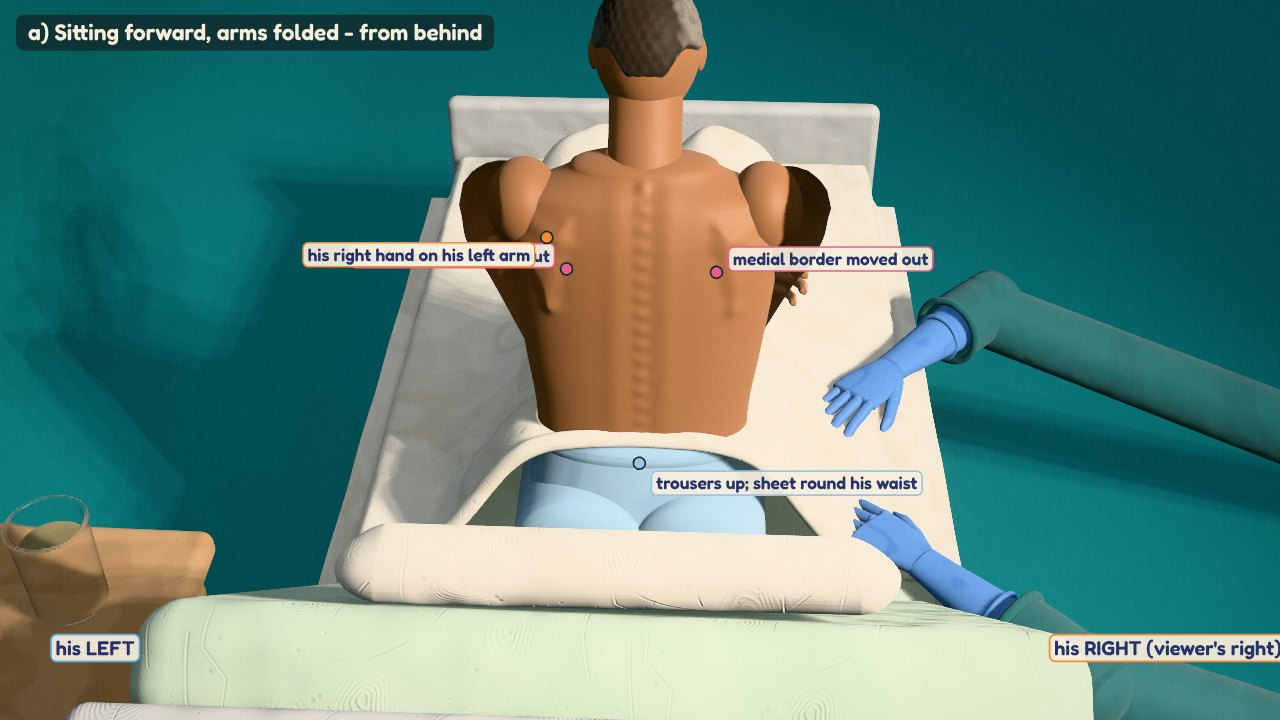
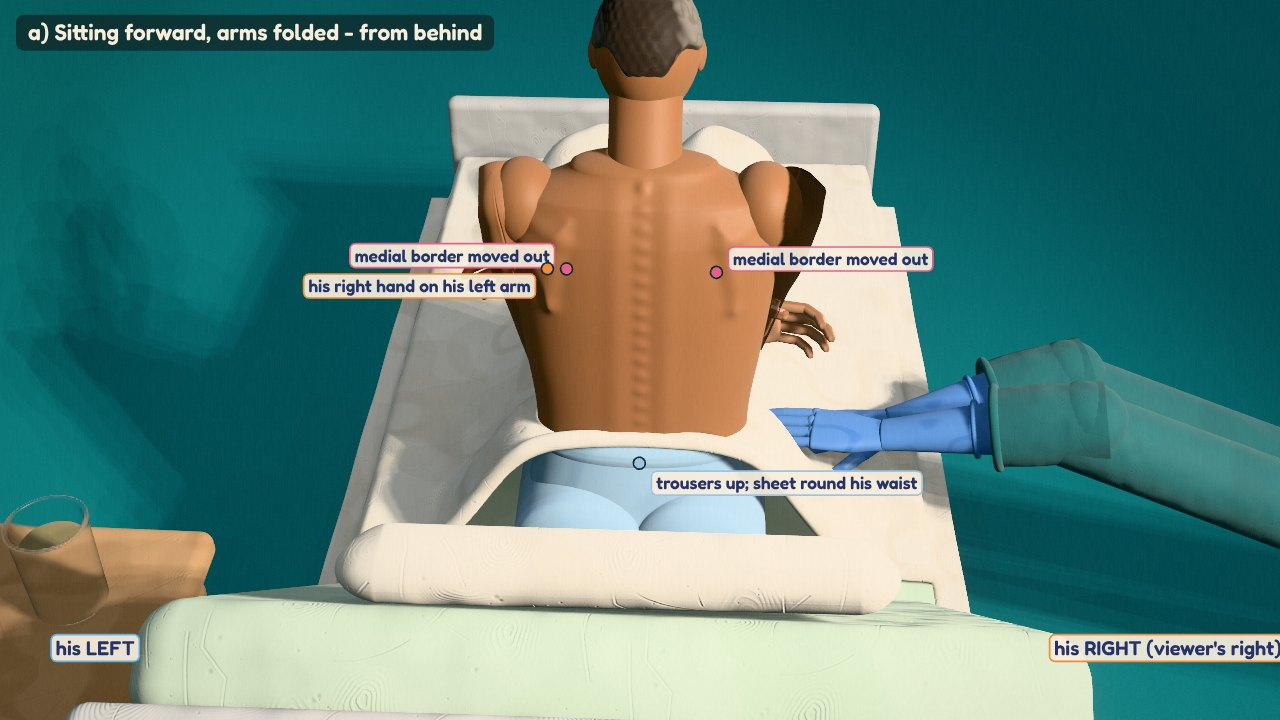
Storyboard re-rendered: arms from his right, new expansion grip, resting hands, folded arms
Claude-Session: https://claude.ai/code/session_011Gm4khWS9GvoAZ91G166Yt

diff --git a/storyboard/index.html b/storyboard/index.html
@@ -55,7 +55,7 @@ ol.assume { margin: 0; padding-left: 22px; display: grid; gap: 8px; max-width: 8
 </header>
 <section><h2>Review panels <small>before beat 1 · never in the video</small></h2>
 <p class="intro">Coloured chips under a panel are gaps measured on the real mesh: a ray from the closest point of each touching part to his skin along the skin normal. Green is within the 1.5 mm rule; amber marks parts that are meant to be lifted or hovering.</p>
-<section class="rev"><h3><span class="tag">a</span>Sitting forward, arms folded</h3><div class="figs n2"><figure class=""><img src="img/sitSide.jpg" alt="From his right side: upright and off the backrest, arms folded across the chest, the sheet over his lap from the waist down, trousers up at the waist. The backrest stays at 45°." width="1280" height="720" loading="lazy"><figcaption><p>From his right side: upright and off the backrest, arms folded across the chest, the sheet over his lap from the waist down, trousers up at the waist. The backrest stays at 45°.</p></figcaption></figure><figure class=""><img src="img/sitBack.jpg" alt="From behind: the shoulder blades have slid out to the sides (medial borders marked). His right hand rests on his left arm." width="1280" height="720" loading="lazy"><figcaption><p>From behind: the shoulder blades have slid out to the sides (medial borders marked). His right hand rests on his left arm.</p></figcaption></figure></div></section><section class="rev"><h3><span class="tag">b</span>Back landmarks</h3><div class="figs n1"><figure class=""><img src="img/landmarks.jpg" alt="Computed on his own back with the arms folded: spinous processes C7 to L1, both scapular spines (solid) and outlines (dashed) with the inferior angles at the 7th rib, the 10th rib (lung bases), the 5 levels on each side (orange = his right, blue = his left, the same height on both sides) and the 3 fremitus zones (rings: upper = level 1, middle = level 3, lower = level 5)." width="1280" height="720" loading="lazy"><figcaption><p>Computed on his own back with the arms folded: spinous processes C7 to L1, both scapular spines (solid) and outlines (dashed) with the inferior angles at the 7th rib, the 10th rib (lung bases), the 5 levels on each side (orange = his right, blue = his left, the same height on both sides) and the 3 fremitus zones (rings: upper = level 1, middle = level 3, lower = level 5).</p></figcaption></figure></div></section><section class="rev"><h3><span class="tag">c</span>Hand poses and skin-level checks</h3><div class="figs n2"><figure class=""><img src="img/expHands.jpg" alt="Expansion, breathed out: palms flat on the lower ribs, fingers round his sides, thumbs meeting at the spine at the 10th rib." width="1280" height="720" loading="lazy"><figcaption><p>Expansion, breathed out: palms flat on the lower ribs, fingers round his sides, thumbs meeting at the spine at the 10th rib.</p><ul class="gaps"><li class="g ok"><span>R palm</span><b>0.4 mm</b></li><li class="g ok"><span>R fingers</span><b>0.4 mm</b></li><li class="g ok"><span>L palm</span><b>0.4 mm</b></li><li class="g ok"><span>L fingers</span><b>0.4 mm</b></li><li class="g lift"><span>R thumb hovers</span><b>3.8 mm</b></li><li class="g lift"><span>L thumb hovers</span><b>3.8 mm</b></li></ul></figcaption></figure><figure class=""><img src="img/expSkin.jpg" alt="Skin level: both thumbs hover free, just off the skin (they never touch)." width="1280" height="720" loading="lazy"><figcaption><p>Skin level: both thumbs hover free, just off the skin (they never touch).</p><ul class="gaps"><li class="g lift"><span>R thumb gap</span><b>3.8 mm</b></li><li class="g lift"><span>L thumb gap</span><b>3.8 mm</b></li></ul></figcaption></figure><figure class=""><img src="img/tvf.jpg" alt="Tactile vocal fremitus, upper zone, right: the flat palm on his upper back, fingers up and over the top of the shoulder." width="1280" height="720" loading="lazy"><figcaption><p>Tactile vocal fremitus, upper zone, right: the flat palm on his upper back, fingers up and over the top of the shoulder.</p><ul class="gaps"><li class="g ok"><span>palm</span><b>0.7 mm</b></li><li class="g ok"><span>fingers</span><b>0.3 mm</b></li></ul></figcaption></figure><figure class=""><img src="img/tvfL.jpg" alt="The same place on the left, the same (right) hand." width="1280" height="720" loading="lazy"><figcaption><p>The same place on the left, the same (right) hand.</p><ul class="gaps"><li class="g ok"><span>palm</span><b>0.6 mm</b></li><li class="g ok"><span>fingers</span><b>0.5 mm</b></li></ul></figcaption></figure><figure class=""><img src="img/tvfLow.jpg" alt="Lower zone, right: palm flat, fingers together up his back." width="1280" height="720" loading="lazy"><figcaption><p>Lower zone, right: palm flat, fingers together up his back.</p><ul class="gaps"><li class="g ok"><span>palm</span><b>0.5 mm</b></li><li class="g ok"><span>fingers</span><b>0.3 mm</b></li></ul></figcaption></figure><figure class=""><img src="img/tvfSkin.jpg" alt="Skin level: the palm on the skin." width="1280" height="720" loading="lazy"><figcaption><p>Skin level: the palm on the skin.</p><ul class="gaps"><li class="g ok"><span>palm</span><b>0.7 mm</b></li><li class="g ok"><span>middle finger</span><b>0.3 mm</b></li><li class="g ok"><span>little finger</span><b>0.6 mm</b></li></ul></figcaption></figure><figure class=""><img src="img/perc.jpg" alt="Percussion, strike frame, level 1 right: only the left middle finger lies on the skin along the rib space; the index, ring and little fingers are lifted off." width="1280" height="720" loading="lazy"><figcaption><p>Percussion, strike frame, level 1 right: only the left middle finger lies on the skin along the rib space; the index, ring and little fingers are lifted off.</p><ul class="gaps"><li class="g ok"><span>L middle finger (only finger on the skin)</span><b>0.6 mm</b></li><li class="g lift"><span>L index lifted</span><b>5.2 mm</b></li><li class="g lift"><span>L ring lifted</span><b>15.4 mm</b></li></ul></figcaption></figure><figure class=""><img src="img/percSkin.jpg" alt="Skin level: the tip of the right middle finger on the middle bone of the left middle finger." width="1280" height="720" loading="lazy"><figcaption><p>Skin level: the tip of the right middle finger on the middle bone of the left middle finger.</p><ul class="gaps"><li class="g ok"><span>L middle finger on skin</span><b>0.6 mm</b></li><li class="g lift"><span>L little lifted</span><b>18.2 mm</b></li></ul></figcaption></figure><figure class=""><img src="img/steth.jpg" alt="Auscultation, level 1 right: the diaphragm pressed firmly, the hand coming from below so the chest piece stays in view; the tubing runs up out of frame." width="1280" height="720" loading="lazy"><figcaption><p>Auscultation, level 1 right: the diaphragm pressed firmly, the hand coming from below so the chest piece stays in view; the tubing runs up out of frame.</p></figcaption></figure><figure class=""><img src="img/stethSkin.jpg" alt="Skin level: the skin presses flush against the whole rim of the diaphragm (gap 0)." width="1280" height="720" loading="lazy"><figcaption><p>Skin level: the skin presses flush against the whole rim of the diaphragm (gap 0).</p><ul class="gaps"><li class="g ok"><span>diaphragm rim 0</span><b>0.1 mm</b></li><li class="g ok"><span>diaphragm rim 90</span><b>0.0 mm</b></li><li class="g ok"><span>diaphragm rim 180</span><b>-0.1 mm</b></li><li class="g ok"><span>diaphragm rim 270</span><b>-0.0 mm</b></li></ul></figcaption></figure></div></section><section class="rev"><h3><span class="tag">d</span>Expansion: breathed out and breathed in</h3><div class="figs n2"><figure class=""><img src="img/expOut.jpg" alt="Breathed out fully: the thumb tips almost meet at the spine." width="1280" height="720" loading="lazy"><figcaption><p>Breathed out fully: the thumb tips almost meet at the spine.</p><ul class="gaps"><li class="g ok"><span>thumb tips apart (breathed out)</span><b>1.1 cm</b></li></ul></figcaption></figure><figure class=""><img src="img/expIn.jpg" alt="Deep breath in, the same camera: each thumb has moved about 2.5 cm out, 5 cm in total." width="1280" height="720" loading="lazy"><figcaption><p>Deep breath in, the same camera: each thumb has moved about 2.5 cm out, 5 cm in total.</p><ul class="gaps"><li class="g ok"><span>thumb tips apart (breathed in)</span><b>6.2 cm</b></li></ul></figcaption></figure></div></section><section class="rev"><h3><span class="tag">e</span>Plan view</h3><div class="figs n1"><figure class=""><img src="img/plan.jpg" alt="From above, head at screen left as in the series: his right (the examiner&#x27;s side) at the bottom, his left at the top with the bedside table near his head, and the back camera behind his right shoulder." width="1280" height="720" loading="lazy"><figcaption><p>From above, head at screen left as in the series: his right (the examiner&#x27;s side) at the bottom, his left at the top with the bedside table near his head, and the back camera behind his right shoulder.</p></figcaption></figure></div></section>
+<section class="rev"><h3><span class="tag">a</span>Sitting forward, arms folded</h3><div class="figs n2"><figure class=""><img src="img/sitSide.jpg" alt="From his right side: upright and off the backrest, arms folded (upper arms down his sides to the bent elbows, forearms crossed in front), the sheet over his lap from the waist down, trousers up at the waist. The backrest stays at 45°." width="1280" height="720" loading="lazy"><figcaption><p>From his right side: upright and off the backrest, arms folded (upper arms down his sides to the bent elbows, forearms crossed in front), the sheet over his lap from the waist down, trousers up at the waist. The backrest stays at 45°.</p></figcaption></figure><figure class=""><img src="img/sitBack.jpg" alt="From behind: the shoulder blades have slid out to the sides (medial borders marked); his upper arms run down his sides to the elbows. The examiner&#x27;s idle hands rest palm down on the sheet beside his right hip." width="1280" height="720" loading="lazy"><figcaption><p>From behind: the shoulder blades have slid out to the sides (medial borders marked); his upper arms run down his sides to the elbows. The examiner&#x27;s idle hands rest palm down on the sheet beside his right hip.</p></figcaption></figure></div></section><section class="rev"><h3><span class="tag">b</span>Back landmarks</h3><div class="figs n1"><figure class=""><img src="img/landmarks.jpg" alt="Computed on his own back with the arms folded: spinous processes C7 to L1, both scapular spines (solid) and outlines (dashed) with the inferior angles at the 7th rib, the 10th rib (lung bases), the 5 levels on each side (orange = his right, blue = his left, the same height on both sides) and the 3 fremitus zones (rings: upper = level 1, middle = level 3, lower = level 5)." width="1280" height="720" loading="lazy"><figcaption><p>Computed on his own back with the arms folded: spinous processes C7 to L1, both scapular spines (solid) and outlines (dashed) with the inferior angles at the 7th rib, the 10th rib (lung bases), the 5 levels on each side (orange = his right, blue = his left, the same height on both sides) and the 3 fremitus zones (rings: upper = level 1, middle = level 3, lower = level 5).</p></figcaption></figure></div></section><section class="rev"><h3><span class="tag">c</span>Hand poses and skin-level checks</h3><div class="figs n2"><figure class=""><img src="img/expHands.jpg" alt="Expansion, breathed out: palms flat on the lower ribs, fingers together across the sides of his lower chest and curled forward round his flanks, thumbs meeting at the spine at the 10th rib. Both forearms come in from his right: the right hand&#x27;s from beside and slightly behind his right side, the left hand&#x27;s reaching across his back." width="1280" height="720" loading="lazy"><figcaption><p>Expansion, breathed out: palms flat on the lower ribs, fingers together across the sides of his lower chest and curled forward round his flanks, thumbs meeting at the spine at the 10th rib. Both forearms come in from his right: the right hand&#x27;s from beside and slightly behind his right side, the left hand&#x27;s reaching across his back.</p><ul class="gaps"><li class="g ok"><span>R palm</span><b>0.4 mm</b></li><li class="g ok"><span>R fingers</span><b>0.6 mm</b></li><li class="g ok"><span>L palm</span><b>0.4 mm</b></li><li class="g ok"><span>L fingers</span><b>0.6 mm</b></li><li class="g lift"><span>R thumb hovers</span><b>3.8 mm</b></li><li class="g lift"><span>L thumb hovers</span><b>3.8 mm</b></li></ul></figcaption></figure><figure class=""><img src="img/expSkin.jpg" alt="Skin level: both thumbs hover free, just off the skin (they never touch)." width="1280" height="720" loading="lazy"><figcaption><p>Skin level: both thumbs hover free, just off the skin (they never touch).</p><ul class="gaps"><li class="g lift"><span>R thumb gap</span><b>3.8 mm</b></li><li class="g lift"><span>L thumb gap</span><b>3.8 mm</b></li></ul></figcaption></figure><figure class=""><img src="img/tvf.jpg" alt="Tactile vocal fremitus, upper zone, right: the flat palm on his upper back, fingers together up over the top of the shoulder; the forearm comes in from his right." width="1280" height="720" loading="lazy"><figcaption><p>Tactile vocal fremitus, upper zone, right: the flat palm on his upper back, fingers together up over the top of the shoulder; the forearm comes in from his right.</p><ul class="gaps"><li class="g ok"><span>palm</span><b>1.0 mm</b></li><li class="g ok"><span>fingers</span><b>0.5 mm</b></li></ul></figcaption></figure><figure class=""><img src="img/tvfL.jpg" alt="The same place on the left: the same (right) hand reaches across from his right." width="1280" height="720" loading="lazy"><figcaption><p>The same place on the left: the same (right) hand reaches across from his right.</p><ul class="gaps"><li class="g ok"><span>palm</span><b>0.6 mm</b></li><li class="g ok"><span>fingers</span><b>0.5 mm</b></li></ul></figcaption></figure><figure class=""><img src="img/tvfLow.jpg" alt="Lower zone, right: palm flat, fingers together pointing up and toward his left." width="1280" height="720" loading="lazy"><figcaption><p>Lower zone, right: palm flat, fingers together pointing up and toward his left.</p><ul class="gaps"><li class="g ok"><span>palm</span><b>0.5 mm</b></li><li class="g ok"><span>fingers</span><b>0.3 mm</b></li></ul></figcaption></figure><figure class=""><img src="img/tvfSkin.jpg" alt="Skin level: the palm on the skin." width="1280" height="720" loading="lazy"><figcaption><p>Skin level: the palm on the skin.</p><ul class="gaps"><li class="g ok"><span>palm</span><b>1.0 mm</b></li><li class="g ok"><span>middle finger</span><b>0.5 mm</b></li><li class="g ok"><span>little finger</span><b>0.6 mm</b></li></ul></figcaption></figure><figure class=""><img src="img/perc.jpg" alt="Percussion, strike frame, level 1 right: only the left middle finger lies on the skin along the rib space; the index, ring and little fingers are lifted off. The left hand lies across his back from his right (fingers toward his left); the striking right hand comes from below and to his right. Both forearms leave to his right." width="1280" height="720" loading="lazy"><figcaption><p>Percussion, strike frame, level 1 right: only the left middle finger lies on the skin along the rib space; the index, ring and little fingers are lifted off. The left hand lies across his back from his right (fingers toward his left); the striking right hand comes from below and to his right. Both forearms leave to his right.</p><ul class="gaps"><li class="g ok"><span>L middle finger (only finger on the skin)</span><b>0.5 mm</b></li><li class="g lift"><span>L index lifted</span><b>18.9 mm</b></li><li class="g lift"><span>L ring lifted</span><b>12.4 mm</b></li></ul></figcaption></figure><figure class=""><img src="img/percSkin.jpg" alt="Skin level: the tip of the right middle finger on the middle bone of the left middle finger." width="1280" height="720" loading="lazy"><figcaption><p>Skin level: the tip of the right middle finger on the middle bone of the left middle finger.</p><ul class="gaps"><li class="g ok"><span>L middle finger on skin</span><b>0.5 mm</b></li><li class="g lift"><span>L little lifted</span><b>20.3 mm</b></li></ul></figcaption></figure><figure class=""><img src="img/steth.jpg" alt="Auscultation, level 1 right: the diaphragm pressed firmly, the hand coming from below and to his right so the chest piece stays in view; the tubing runs up out of frame." width="1280" height="720" loading="lazy"><figcaption><p>Auscultation, level 1 right: the diaphragm pressed firmly, the hand coming from below and to his right so the chest piece stays in view; the tubing runs up out of frame.</p></figcaption></figure><figure class=""><img src="img/stethSkin.jpg" alt="Skin level: the skin presses flush against the whole rim of the diaphragm (gap 0)." width="1280" height="720" loading="lazy"><figcaption><p>Skin level: the skin presses flush against the whole rim of the diaphragm (gap 0).</p><ul class="gaps"><li class="g ok"><span>diaphragm rim 0</span><b>0.1 mm</b></li><li class="g ok"><span>diaphragm rim 90</span><b>0.0 mm</b></li><li class="g ok"><span>diaphragm rim 180</span><b>-0.1 mm</b></li><li class="g ok"><span>diaphragm rim 270</span><b>-0.0 mm</b></li></ul></figcaption></figure></div></section><section class="rev"><h3><span class="tag">d</span>Expansion: breathed out and breathed in</h3><div class="figs n2"><figure class=""><img src="img/expOut.jpg" alt="Breathed out fully: the thumb tips almost meet at the spine." width="1280" height="720" loading="lazy"><figcaption><p>Breathed out fully: the thumb tips almost meet at the spine.</p><ul class="gaps"><li class="g ok"><span>thumb tips apart (breathed out)</span><b>1.2 cm</b></li></ul></figcaption></figure><figure class=""><img src="img/expIn.jpg" alt="Deep breath in, the same camera: each thumb has moved about 2.5 cm out, 5 cm in total." width="1280" height="720" loading="lazy"><figcaption><p>Deep breath in, the same camera: each thumb has moved about 2.5 cm out, 5 cm in total.</p><ul class="gaps"><li class="g ok"><span>thumb tips apart (breathed in)</span><b>6.3 cm</b></li></ul></figcaption></figure></div></section><section class="rev"><h3><span class="tag">e</span>Plan view</h3><div class="figs n1"><figure class=""><img src="img/plan.jpg" alt="From above, head at screen left as in the series: his right (the examiner&#x27;s side) at the bottom, his left at the top with the bedside table near his head, and the back camera behind his right shoulder." width="1280" height="720" loading="lazy"><figcaption><p>From above, head at screen left as in the series: his right (the examiner&#x27;s side) at the bottom, his left at the top with the bedside table near his head, and the back camera behind his right shoulder.</p></figcaption></figure></div></section>
 </section>
 <section><h2>Beats <small>captioned version</small></h2>
 <div class="beats"><article class="beat"><div class="shots k1"><img src="img/home.jpg" alt="Beat Start key frame" width="1280" height="720" loading="lazy"></div>
@@ -66,11 +66,11 @@ ol.assume { margin: 0; padding-left: 22px; display: grid; gap: 8px; max-width: 8
 <div class="info"><header><span class="num">2</span><h3>Inspection of the back</h3><span class="time">7.0 – 12.0 s</span></header>
 <dl><dt>On screen</dt><dd>7.5 – 11.9 s, top: &quot;Straight spine, no scars, symmetrical&quot;</dd><dt>What changes</dt><dd>He breathes quietly (16 a minute, mouth closed, chest and upper abdomen together). Nothing else moves.</dd><dt>Camera</dt><dd>Passes over his back: whole back, up toward the shoulders, down toward the lower ribs, back to the whole back.</dd><dt>Sound</dt><dd>Room ambience, a soft whoosh (8.6 s).</dd></dl></div></article><article class="beat"><div class="shots k1"><img src="img/b3.jpg" alt="Beat 3 key frame" width="1280" height="720" loading="lazy"></div>
 <div class="info"><header><span class="num">3</span><h3>Expansion at the back</h3><span class="time">12.0 – 22.0 s</span></header>
-<dl><dt>On screen</dt><dd>15.6 – 21.8 s, top: &quot;Thumbs move apart equally, 5 cm - normal expansion&quot;</dd><dt>What changes</dt><dd>12.2 – 13.4 s both hands travel relaxed onto the lower back ribs, thumbs at the spine at the 10th rib, hovering 4 mm off the skin. 13.6 – 15.4 s he breathes out fully; 15.4 – 18.2 s deep breath in: the thumbs move apart 2.5 cm each (5 cm); 18.2 – 20.4 s out again, the thumbs come back together. 20.6 – 21.6 s hands back to rest. (The white 5 cm arrow is storyboard only.)</dd><dt>Camera</dt><dd>Moves in a little, centred on his lower back, held through the breath.</dd><dt>Sound</dt><dd>Two soft glove squishes as the hands land (13.4 s). No breath sounds (no stethoscope on the skin).</dd></dl></div></article><article class="beat"><div class="shots k1"><img src="img/b4.jpg" alt="Beat 4 key frame" width="1280" height="720" loading="lazy"></div>
+<dl><dt>On screen</dt><dd>15.6 – 21.8 s, top: &quot;Thumbs move apart equally, 5 cm - normal expansion&quot;</dd><dt>What changes</dt><dd>12.2 – 13.4 s both hands travel relaxed onto the lower back ribs, fingers together across his sides and curled forward round his flanks, thumbs at the spine at the 10th rib, hovering 4 mm off the skin. 13.6 – 15.4 s he breathes out fully; 15.4 – 18.2 s deep breath in: the thumbs move apart 2.5 cm each (5 cm); 18.2 – 20.4 s out again, the thumbs come back together. 20.6 – 21.6 s hands back to rest. (The white 5 cm arrow is storyboard only.)</dd><dt>Camera</dt><dd>Moves in a little, centred on his lower back, held through the breath.</dd><dt>Sound</dt><dd>Two soft glove squishes as the hands land (13.4 s). No breath sounds (no stethoscope on the skin).</dd></dl></div></article><article class="beat"><div class="shots k1"><img src="img/b4.jpg" alt="Beat 4 key frame" width="1280" height="720" loading="lazy"></div>
 <div class="info"><header><span class="num">4</span><h3>Tactile vocal fremitus</h3><span class="time">22.0 – 32.0 s (hold 22.0 – 23.5 s)</span></header>
-<dl><dt>On screen</dt><dd>24.0 – 31.9 s, top: &quot;Tactile vocal fremitus (&#x27;44&#x27;): equal on both sides&quot;</dd><dt>What changes</dt><dd>Hold: still, no caption (he is asked to say &quot;44&quot;). Then the flat palm of the right hand rests on: upper right 23.9, upper left 25.3, middle right 26.7, middle left 28.1, lower right 29.5, lower left 30.9 s (about 0.95 s each). At each he says &quot;44&quot;: jaw and lips move, no sound.</dd><dt>Camera</dt><dd>The back shot, still.</dd><dt>Sound</dt><dd>A soft squish as the palm lands at each site. Silence for &quot;44&quot; (added later).</dd></dl></div></article><article class="beat"><div class="shots k1"><img src="img/b5.jpg" alt="Beat 5 key frame" width="1280" height="720" loading="lazy"></div>
+<dl><dt>On screen</dt><dd>24.0 – 31.9 s, top: &quot;Tactile vocal fremitus (&#x27;44&#x27;): equal on both sides&quot;</dd><dt>What changes</dt><dd>Hold: still, no caption (he is asked to say &quot;44&quot;). Then the flat palm of the right hand (coming in from his right) rests on: upper right 23.9, upper left 25.3, middle right 26.7, middle left 28.1, lower right 29.5, lower left 30.9 s (about 0.95 s each). At each he says &quot;44&quot;: jaw and lips move, no sound.</dd><dt>Camera</dt><dd>The back shot, still.</dd><dt>Sound</dt><dd>A soft squish as the palm lands at each site. Silence for &quot;44&quot; (added later).</dd></dl></div></article><article class="beat"><div class="shots k1"><img src="img/b5.jpg" alt="Beat 5 key frame" width="1280" height="720" loading="lazy"></div>
 <div class="info"><header><span class="num">5</span><h3>Percussion</h3><span class="time">32.0 – 48.0 s</span></header>
-<dl><dt>On screen</dt><dd>33.4 – 47.6 s, top: &quot;Resonant and equal at all 5 levels, right vs left&quot;</dd><dt>What changes</dt><dd>Left middle finger along the rib space, the other fingers lifted; the right middle fingertip strikes its middle bone twice from a loose wrist and lifts straight off. Levels 1 to 5, right then left at each level: R1 33.5, L1 34.9, R2 36.3, L2 37.8, R3 39.2, L3 40.6, R4 42.1, L4 43.5, R5 44.9, L5 46.3 s. (Frame shown: level 3 left, strike frame.)</dd><dt>Camera</dt><dd>The back shot, still.</dd><dt>Sound</dt><dd>A resonant note (low, hollow, ringing a little) on the exact frame of each of the 20 strikes; identical right and left.</dd></dl></div></article><article class="beat"><div class="shots k3"><img src="img/b6.jpg" alt="Beat 6 key frame" width="1280" height="720" loading="lazy"><img src="img/b6b.jpg" alt="Beat 6 key frame" width="1280" height="720" loading="lazy"><img src="img/b6c.jpg" alt="Beat 6 key frame" width="1280" height="720" loading="lazy"></div>
+<dl><dt>On screen</dt><dd>33.4 – 47.6 s, top: &quot;Resonant and equal at all 5 levels, right vs left&quot;</dd><dt>What changes</dt><dd>Left middle finger along the rib space (the left hand lies across his back from his right), the other fingers lifted; the right middle fingertip strikes its middle bone twice from a loose wrist and lifts straight off. Levels 1 to 5, right then left at each level: R1 33.5, L1 34.9, R2 36.3, L2 37.8, R3 39.2, L3 40.6, R4 42.1, L4 43.5, R5 44.9, L5 46.3 s. (Frame shown: level 3 left, strike frame.)</dd><dt>Camera</dt><dd>The back shot, still.</dd><dt>Sound</dt><dd>A resonant note (low, hollow, ringing a little) on the exact frame of each of the 20 strikes; identical right and left.</dd></dl></div></article><article class="beat"><div class="shots k3"><img src="img/b6.jpg" alt="Beat 6 key frame" width="1280" height="720" loading="lazy"><img src="img/b6b.jpg" alt="Beat 6 key frame" width="1280" height="720" loading="lazy"><img src="img/b6c.jpg" alt="Beat 6 key frame" width="1280" height="720" loading="lazy"></div>
 <div class="info"><header><span class="num">6</span><h3>Auscultation</h3><span class="time">48.0 – 72.0 s (hold 48.0 – 49.5 s)</span></header>
 <dl><dt>On screen</dt><dd>50.8 – 56.5 s: &quot;Same sites: compare right with left&quot; · 56.8 – 66.7 s: &quot;Vesicular, good and equal air entry down to the bases&quot; · 67.0 – 71.8 s: &quot;No wheeze, no crackles, no pleural rub&quot; (all top)</dd><dt>What changes</dt><dd>Hold: still, no caption (he is asked to breathe deeply through his open mouth). The chest piece pops into the right hand (49.8 s). Diaphragm pressed firmly at level 1 right (50.6 – 56.0 s) and left (56.6 – 62.0 s), one full deep breath at each, lips apart. Then quicker, time sped up (the small clay clock on the bedside table races): levels 2 to 5, right then left, one short breath at each (about 1.2 s per site), ending at the bases.</dd><dt>Camera</dt><dd>The back shot, still.</dd><dt>Sound</dt><dd>Vesicular breath sound only while the diaphragm is on the skin, from the same breathing schedule: grows through inspiration, fades early in expiration, no gap. Equal both sides. A soft tock as the chest piece lands; clock ticks during the quick run.</dd></dl></div></article><article class="beat"><div class="shots k1"><img src="img/b7.jpg" alt="Beat 7 key frame" width="1280" height="720" loading="lazy"></div>
 <div class="info"><header><span class="num">7</span><h3>Vocal resonance</h3><span class="time">72.0 – 81.0 s</span></header>
@@ -90,6 +90,6 @@ ol.assume { margin: 0; padding-left: 22px; display: grid; gap: 8px; max-width: 8
 </ul>
 </section>
 <section><h2>Facts and numbers I assumed</h2>
-<ol class="assume"><li>Length 87 s (about 90 s as asked): start 1 s, beats of 6, 5, 10, 10, 16, 24, 9 and 6 s.</li><li>His back: vertebral levels 2.35 cm apart, C7 at the base of the neck, T7 (inferior angles) 14 cm below C7, T10 21 cm below C7. The 10th rib slopes down 1.7 cm per 10 cm out from the spine.</li><li>The 5 levels (distance from the midline / height): 1) 7.4 cm, 3.1 cm below C7 (above the scapular spine, medial to the superior angle); 2) and 3) 4.8 cm, between the scapula and the spine; 4) 10 cm, 2.5 cm below the inferior angle; 5) 10 cm, just above the 10th rib.</li><li>With the arms folded the medial border of each shoulder blade moves from 6.2 cm to 9.8 cm from the midline (and the inferior angle further out).</li><li>Expansion: the thumbs hover 4 mm off the skin. Breathed out the tips are 1.1 cm apart; at the top of the deep breath 6.1 cm (5 cm more, 2.5 cm each).</li><li>Quiet breathing 16 a minute. Deep breaths at level 1 last 4.9 s each (about 12 a minute; I can slow them to 10 a minute, which adds about 2 s). Levels 2 to 5 use one short breath each (0.85 s) shown as sped-up time with the clay clock (about 45 s of real time in 9.6 s).</li><li>Fremitus uses the examiner&#x27;s right hand on both sides (moved right to left, as written). Percussion uses the left middle finger as the pleximeter (fingers pointing to his right, along the rib space) and the right middle finger to strike, two strikes per site.</li><li>Gaps: palms and fingers 0.2 – 0.6 mm; the diaphragm is pressed in until the skin lies flush with its whole rim (about 1 – 3 mm deep at the centre: &quot;pressed firmly&quot;).</li><li>&quot;44&quot;: the jaw and lips move, but from behind his face is mostly hidden. I can add a short cutaway of his face if you want the lips visible.</li><li>No breath sound during vocal resonance (he is speaking, the voice is added later).</li><li>The chest piece pops into the hand in stop-motion (no pick-up from a surface); the tubing runs up out of frame.</li><li>Captions are all at the top (they cover only the back of his head; never the hands or the sites).</li><li>Built in my own code, shared/ untouched: the sitting pose, a second drape of the shared sheet for sitting, a pyjama seat shown only when he sits up, a finer copy of his trunk mesh while sitting (same shape; avoids stripe artifacts on the new spine relief), rounded elbows inside the sleeves while sitting. The home shot uses only the shared models, so it matches parts 1 and 2.</li><li>This machine has no GPU: the stills are software WebGL at 10 – 16 samples (a little noise and soft shadow banding is expected). The final MP4s render on your PC with npm start (next round).</li></ol>
+<ol class="assume"><li>Length 87 s (about 90 s as asked): start 1 s, beats of 6, 5, 10, 10, 16, 24, 9 and 6 s.</li><li>His back: vertebral levels 2.35 cm apart, C7 at the base of the neck, T7 (inferior angles) 14 cm below C7, T10 21 cm below C7. The 10th rib slopes down 1.7 cm per 10 cm out from the spine.</li><li>The 5 levels (distance from the midline / height): 1) 7.4 cm, 3.1 cm below C7 (above the scapular spine, medial to the superior angle); 2) and 3) 4.8 cm, between the scapula and the spine; 4) 10 cm, 2.5 cm below the inferior angle; 5) 10 cm, just above the 10th rib.</li><li>With the arms folded the medial border of each shoulder blade moves from 6.2 cm to 9.8 cm from the midline (and the inferior angle further out).</li><li>Expansion: the thumbs hover 4 mm off the skin. Because the thumbs point to the spine, the fingers rise a little (about 15°) as they wrap round his flanks; a hand cannot lay its thumb and its fingers along one horizontal line. Breathed out the tips are 1.1 cm apart; at the top of the deep breath 6.1 cm (5 cm more, 2.5 cm each).</li><li>Quiet breathing 16 a minute. Deep breaths at level 1 last 4.9 s each (about 12 a minute; I can slow them to 10 a minute, which adds about 2 s). Levels 2 to 5 use one short breath each (0.85 s) shown as sped-up time with the clay clock (about 45 s of real time in 9.6 s).</li><li>Every examiner arm comes in from his right: the elbow sits beside and slightly behind his right side, above the bed and clear of the backrest, and the sleeve rises to the examiner&#x27;s shoulder beside his right shoulder, leaving the frame on screen right. The two-hand steps put the right hand on his right side and the left hand reaching across to his left. When a hand is not working it rests palm down on the sheet beside his right hip. Fremitus uses the examiner&#x27;s right hand on both sides (moved right to left, as written). Percussion uses the left middle finger as the pleximeter (fingers pointing to his left, along the rib space) and the right middle finger to strike, two strikes per site.</li><li>Gaps: palms and fingers 0.2 – 0.6 mm; the diaphragm is pressed in until the skin lies flush with its whole rim (about 1 – 3 mm deep at the centre: &quot;pressed firmly&quot;).</li><li>&quot;44&quot;: the jaw and lips move, but from behind his face is mostly hidden. I can add a short cutaway of his face if you want the lips visible.</li><li>No breath sound during vocal resonance (he is speaking, the voice is added later).</li><li>The chest piece pops into the hand in stop-motion (no pick-up from a surface); the tubing runs up out of frame.</li><li>Captions are all at the top (they cover only the back of his head; never the hands or the sites).</li><li>Built in my own code, shared/ untouched: the sitting pose, a second drape of the shared sheet for sitting, a pyjama seat shown only when he sits up, a finer copy of his trunk mesh while sitting (same shape; avoids stripe artifacts on the new spine relief), rounded elbows inside the sleeves while sitting. The home shot uses only the shared models, so it matches parts 1 and 2.</li><li>This machine has no GPU: the stills are software WebGL at 10 – 16 samples (a little noise and soft shadow banding is expected). The final MP4s render on your PC with npm start (next round).</li></ol>
 </section>
 </div>
